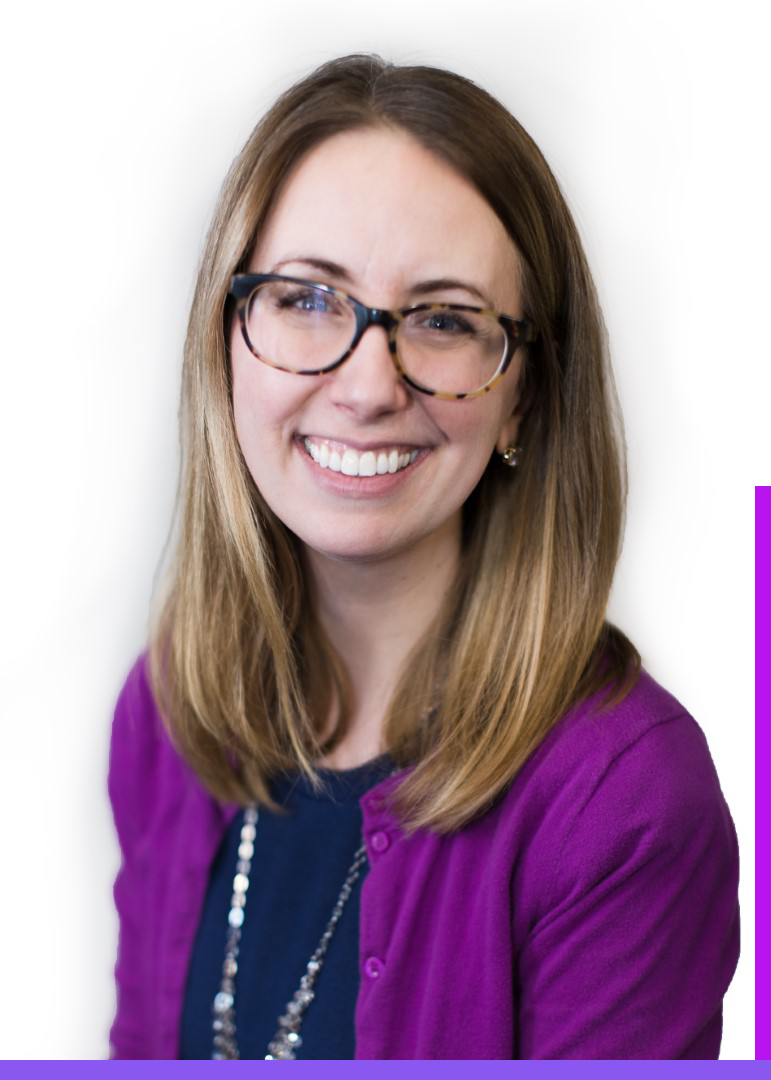
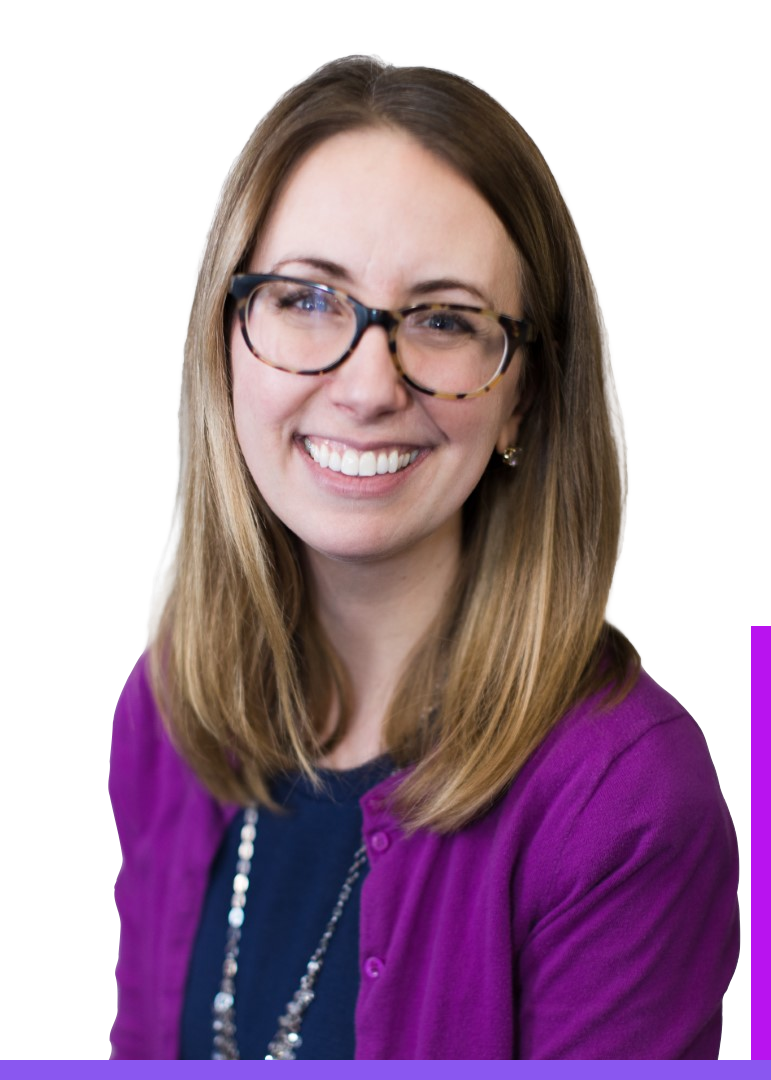
updating photos

diff --git a/unplanned_lessons/index.html b/unplanned_lessons/index.html
@@ -215,7 +215,7 @@
     <div class="col-md-2"></div>
 
     <div class="col-md-4">
-      <img class="left" src="images/Colby Sharp.png">
+      <img class="left" src="images/jennifer_dao.png">
     </div>
 
     <div class="col-md-4 left-margin">
